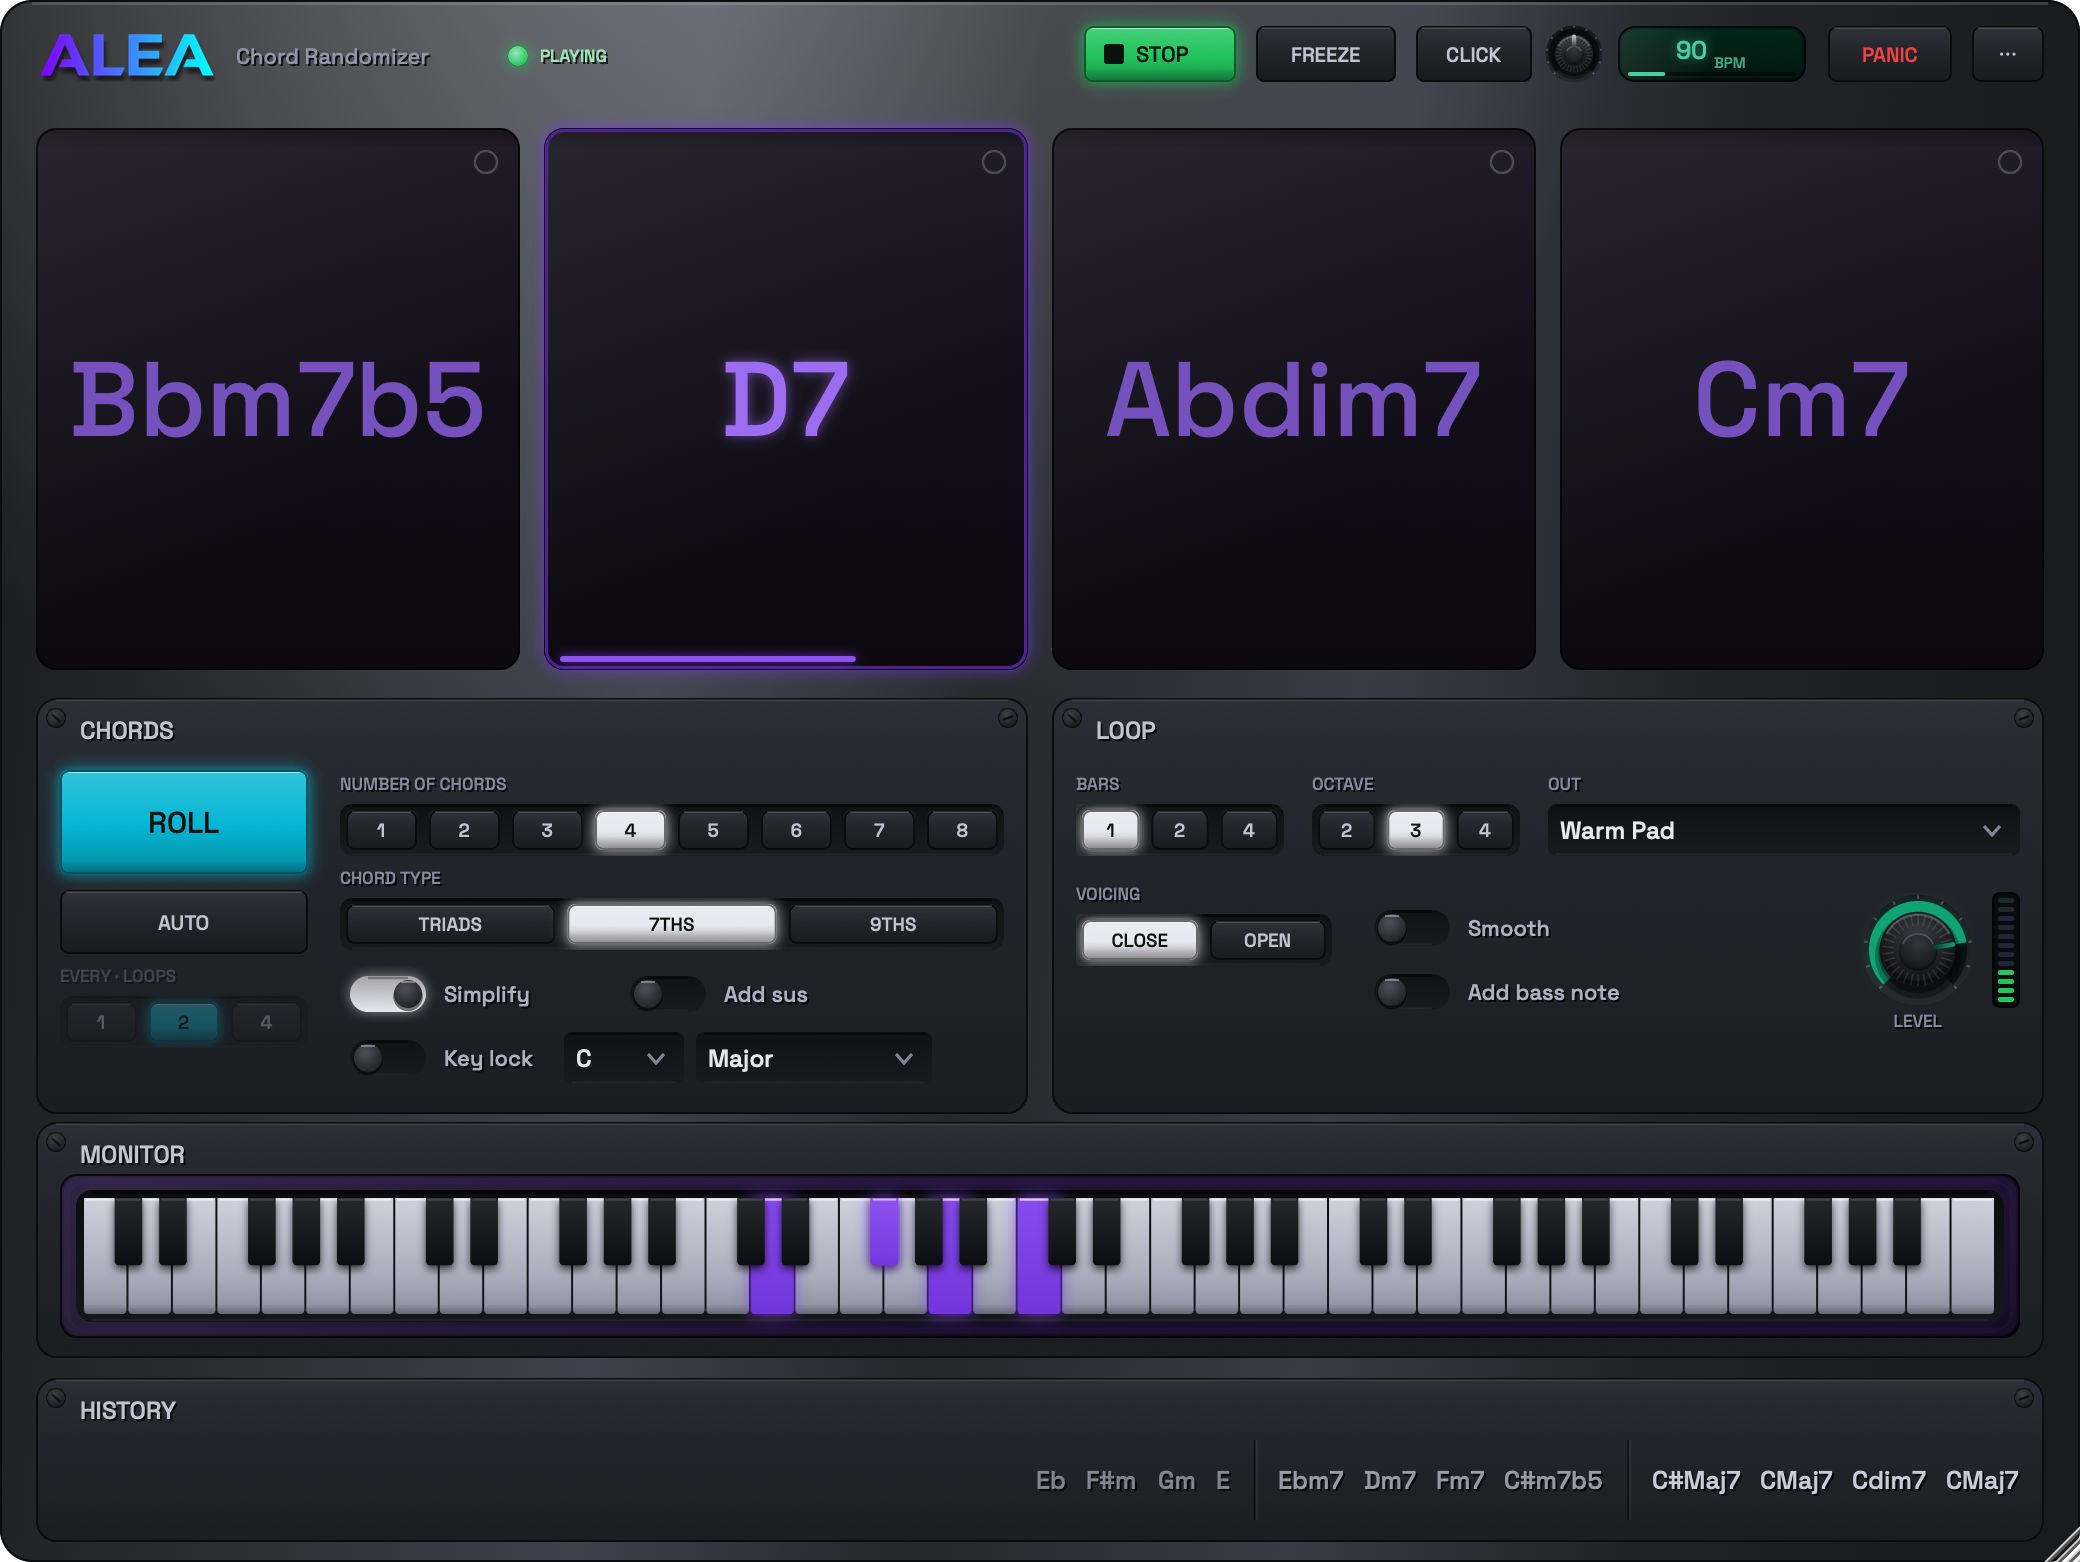
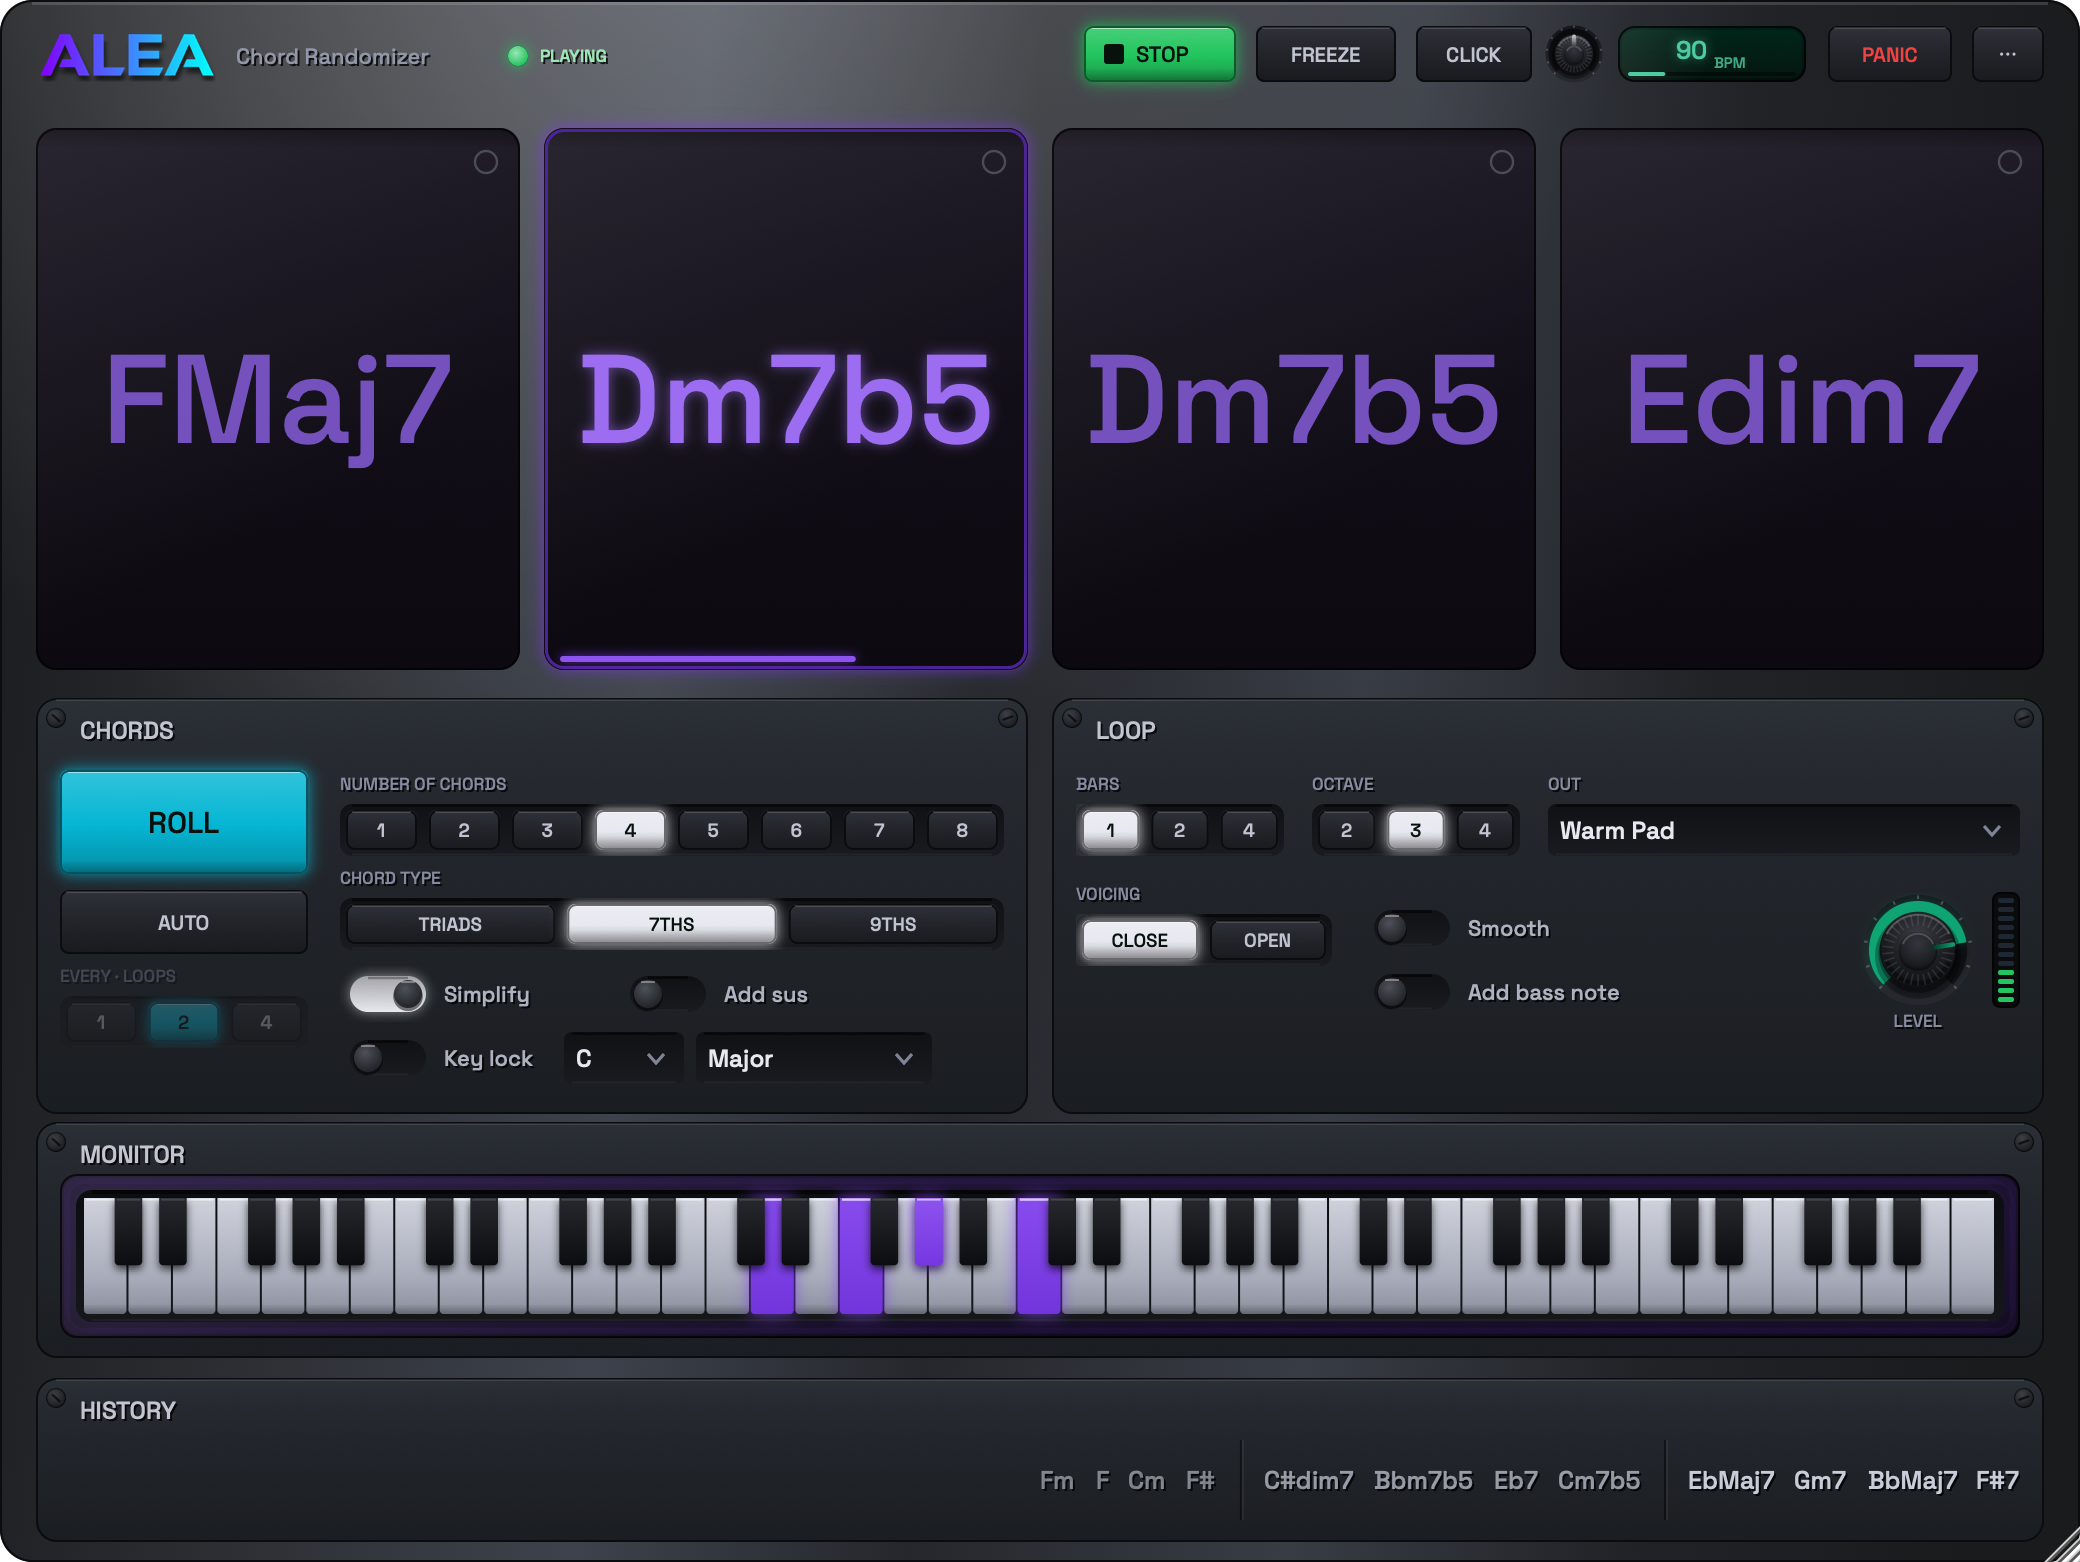
QA round 7: the PLAYED-key bug (terms decoded), tint balance, BPM scanlines
Yuval's 'selected' meant PLAYED all along - the bug was the sounding
key: a full-strength green VU gradient over the accent face made a
purple-to-green ombre, and the 3px press offset left a floating gap.
Now the green is an UNDERLIGHT (<=55% alpha tint whose reach is the
velocity), the key keeps its own colour, and the vacated strip above
the sunk key fills with shadow so it reads pressed INTO the bed.

The round-6 'fix' had also reverted the unselected keys' 3-stop
gradient + bottom lip - which was the part Yuval LIKED ('the new
keyboard gradient is cool'). Restored.

Also: the violet screen tint gets more presence (0.38 vs cyan's 0.22 -
cyan sits nearer green so it read stronger at equal mix); the BPM LCD
gets its barely-visible scanlines; knob arcs emit more light (0.45/9).

diff --git a/Source/UI.cpp b/Source/UI.cpp
@@ -174,17 +174,19 @@ void PianoKeyboard::paint (juce::Graphics& g)
 
     auto velocityFill = [&g, velNorm] (juce::Rectangle<float> key, float radius)
     {
-        const float h = key.getHeight() * juce::jmax (0.12f, velNorm);
+        // The green UNDERLIGHT of the pressed key (design: an inset glow at
+        // ~45%): velocity sets its reach, but it TINTS the key's own colour -
+        // a full-strength fill turned lit keys into a purple-to-green ombre
+        // that read as a bug (July 10 QA round 7).
+        const float h = key.getHeight() * juce::jmax (0.18f, velNorm);
         const auto fill = key.withTop (key.getBottom() - h);
         juce::Path clip;
         clip.addRoundedRectangle (key.getX(), key.getY(), key.getWidth(), key.getHeight(),
                                   radius, radius, false, false, true, true);
         juce::Graphics::ScopedSaveState ss (g);
         g.reduceClipRegion (clip);
-        // Green rising from the bottom and dissolving softly upward.
         juce::ColourGradient body (colors::playing.withAlpha (0.0f), fill.getX(), fill.getY(),
-                                   colors::playing, fill.getX(), fill.getBottom(), false);
-        body.addColour (0.40, colors::playing.withAlpha (0.85f));
+                                   colors::playing.withAlpha (0.55f), fill.getX(), fill.getBottom(), false);
         g.setGradientFill (body);
         g.fillRect (fill);
     };
@@ -195,7 +197,14 @@ void PianoKeyboard::paint (juce::Graphics& g)
     {
         const auto k = pressedRect (key, pressed);
         const auto path = keyPath (k, radius);
-        const float dim = pressed ? 0.86f : 1.0f;
+        const float dim = pressed ? 0.88f : 1.0f;
+        if (pressed)
+        {
+            // The strip the key vacated is deep shadow - the key sits IN the
+            // bed, it doesn't float in front of it.
+            g.setColour (juce::Colours::black.withAlpha (0.55f));
+            g.fillRect (juce::Rectangle<float> (key.getX(), key.getY(), key.getWidth(), 3.5f));
+        }
 
         if (isSel)
         {
@@ -212,11 +221,14 @@ void PianoKeyboard::paint (juce::Graphics& g)
         }
         else
         {
-            // The ORIGINAL unselected gradient, untouched (July 10 QA round 6:
-            // the 3-stop redesign here read as "less pretty").
-            auto top = juce::Colour (isWhite ? 0xff2a2c32 : 0xff1a1b20).withMultipliedBrightness (dim);
-            auto bot = juce::Colour (isWhite ? 0xff131418 : 0xff0a0b0e).withMultipliedBrightness (dim);
-            g.setGradientFill (juce::ColourGradient (top, k.getX(), k.getY(), bot, k.getX(), k.getBottom(), false));
+            // The design's 3-stop top-lit gradient (Yuval: "the new keyboard
+            // gradient is cool" - unselected keys only).
+            auto top = juce::Colour (isWhite ? 0xff2a2c32 : 0xff1c1d22).withMultipliedBrightness (dim);
+            auto mid = juce::Colour (isWhite ? 0xff1c1d22 : 0xff0a0b0d).withMultipliedBrightness (dim);
+            auto bot = juce::Colour (isWhite ? 0xff131418 : 0xff050506).withMultipliedBrightness (dim);
+            juce::ColourGradient grad (top, k.getX(), k.getY(), bot, k.getX(), k.getBottom(), false);
+            grad.addColour (0.70, mid);
+            g.setGradientFill (grad);
             g.fillPath (path);
         }
 
@@ -232,9 +244,19 @@ void PianoKeyboard::paint (juce::Graphics& g)
         }
         else
         {
-            g.setColour (juce::Colours::white.withAlpha (isSel ? 0.7f : (isWhite ? 0.05f : 0.10f)));
+            g.setColour (juce::Colours::white.withAlpha (isSel ? 0.7f : (isWhite ? 0.08f : 0.10f)));
             g.drawLine (k.getX() + 2.0f, k.getY() + 1.0f, k.getRight() - 2.0f, k.getY() + 1.0f,
                         isSel ? 1.4f : 1.0f);
+        }
+        // Shaded bottom lip - the 3D front edge (UNSELECTED keys only; on the
+        // lit accent it dirtied the colour).
+        if (! isSel)
+        {
+            const float lip = juce::jmin (10.0f, k.getHeight() * 0.16f);
+            juce::ColourGradient lipG (juce::Colours::transparentBlack, k.getX(), k.getBottom() - lip,
+                                       juce::Colours::black.withAlpha (0.5f), k.getX(), k.getBottom(), false);
+            g.setGradientFill (lipG);
+            g.fillRect (k.withTop (k.getBottom() - lip));
         }
     };
 
@@ -775,7 +797,8 @@ void OutputPanel::paint (juce::Graphics& g)
     // The glass is PHYSICALLY green (green phosphor, green LED); what is
     // sounding only TINTS it ~20% toward the active side's colour - a fully
     // violet screen read as unnatural (July 10 QA round 6).
-    hw::lcd (g, lcdRect, active >= 0 ? colors::green.interpolatedWith (srcColour, 0.22f)
+    hw::lcd (g, lcdRect, active >= 0 ? colors::green.interpolatedWith (srcColour,
+                                           srcColour == colors::purple ? 0.38f : 0.22f)
                                      : colors::green);
     auto screen = lcdRect.toNearestInt().reduced (10, 4);
     auto barBeat = screen.removeFromRight (86);

diff --git a/Source/Hardware.cpp b/Source/Hardware.cpp
@@ -737,7 +737,7 @@ namespace hw
                 juce::Path glowSrc;
                 juce::PathStrokeType (arcT, juce::PathStrokeType::curved, juce::PathStrokeType::butt)
                     .createStrokedPath (glowSrc, lit);
-                dropGlow (g, glowSrc, accent.withAlpha (0.30f), 6);
+                dropGlow (g, glowSrc, accent.withAlpha (0.45f), 9);
             }
             g.setColour (accent);
             g.strokePath (lit, juce::PathStrokeType (arcT, juce::PathStrokeType::curved, juce::PathStrokeType::butt));
@@ -1182,6 +1182,7 @@ namespace
                                          / juce::jmax (1.0, s.getMaximum() - s.getMinimum()));
                 g.setColour (ink);
                 g.fillRoundedRectangle (track.withWidth (juce::jmax (2.0f, track.getWidth() * t)), 1.0f);
+                hw::lcdScanlines (g, r); // the barely-visible CRT lines over the glass
                 return;
             }
             // MiniSlider: recessed track, accent fill with a soft glow, round